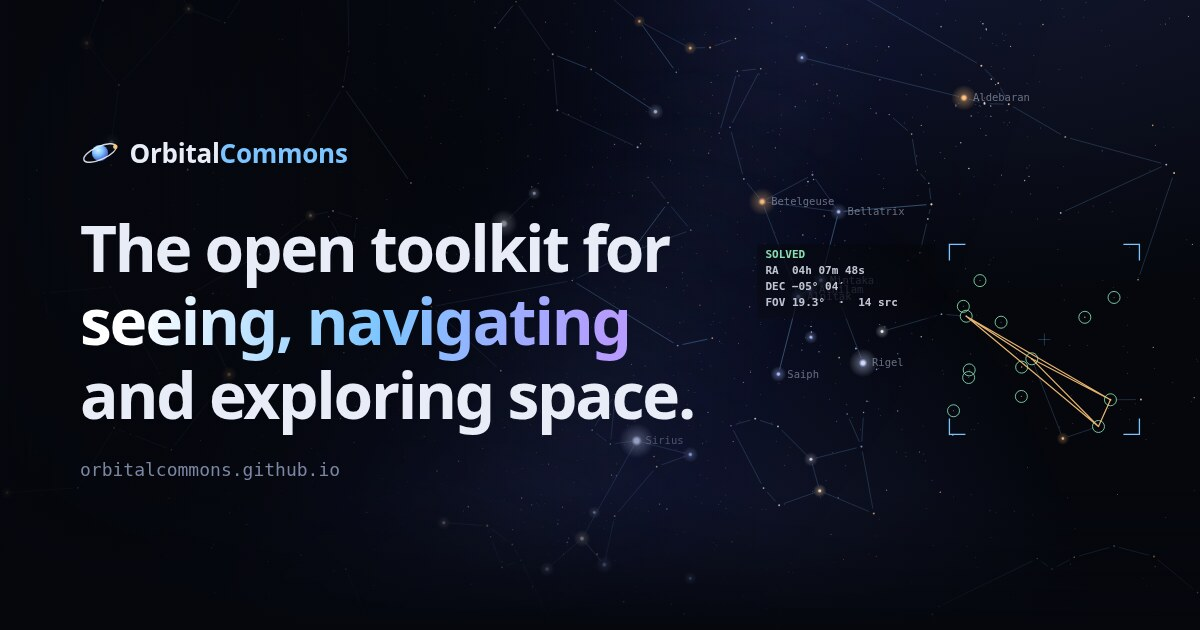
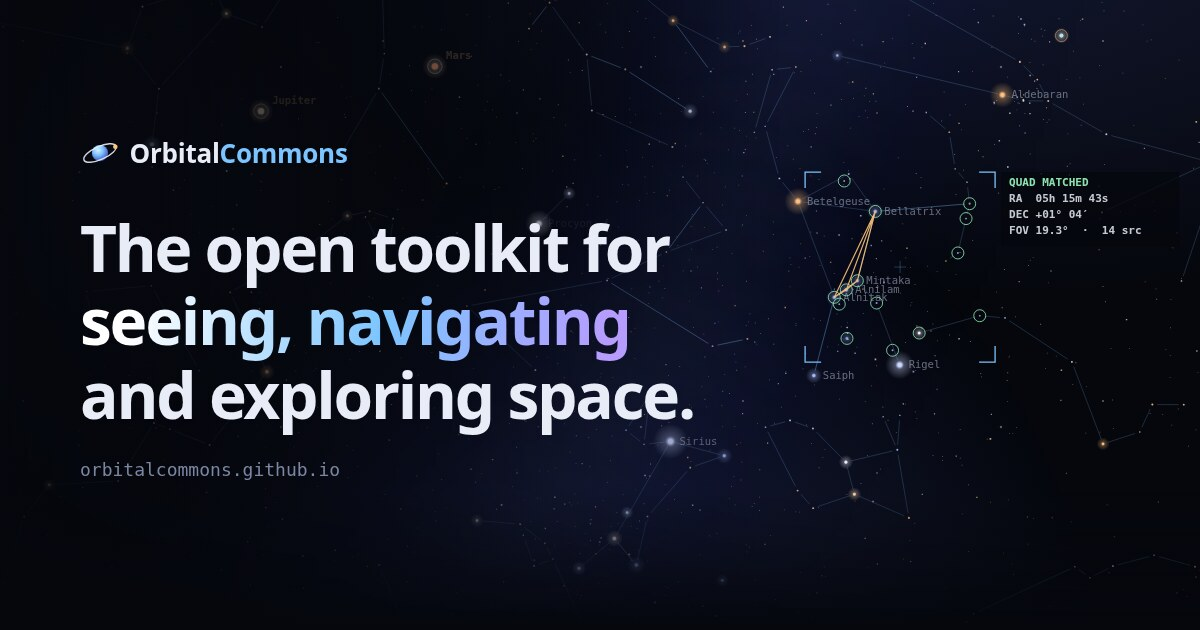
Refresh social card with illustration wording

diff --git a/README.md b/README.md
@@ -14,7 +14,7 @@ the files through Jekyll.
 | `assets/sky.js` | The interactive star map in the hero, with the plate-solve illustration. |
 | `assets/sky-art.js` | Static real-sky panels for project pages (`canvas.sky-art`, see the header comment). |
 | `assets/stars.js` | Hipparcos stars and constellation lines, generated by `tools/build_stars.py`. |
-| `assets/og.jpg` | Social preview card, a screenshot of `tools/og.html` at 1200&times;630. |
+| `assets/og.jpg` | Social preview card: `tools/og.html` at 1200&times;630, captured with `Math.random` pinned to 0.35. |
 | `projects/<name>/` | Project overview pages. |
 
 Project cards, download counts and versions are maintained by hand. When a repository is added
